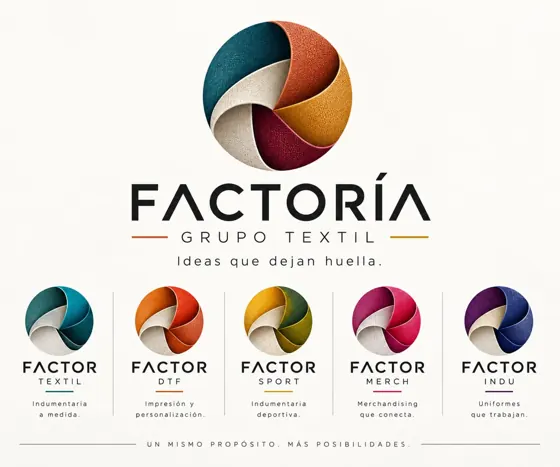
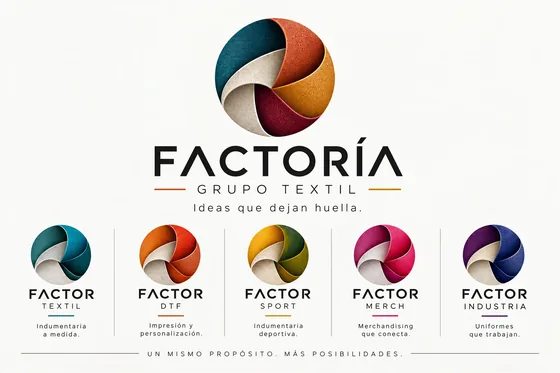
Hero: imagen de familia de marcas con Factor Industria
Nueva imagen (1200x800 y 560x373) con la línea ya renombrada; se ajusta
el alto declarado del <img> a la nueva proporción.

diff --git a/index.html b/index.html
@@ -119,7 +119,7 @@
         </div>
 
         <figure class="hero-art stitch">
-          <img src="/assets/img/lineas/familia-marcas.webp" srcset="/assets/img/lineas/familia-marcas-sm.webp 560w, /assets/img/lineas/familia-marcas.webp 1200w" sizes="(max-width: 900px) min(520px, calc(100vw - 32px)), 480px" alt="Factoría Grupo Textil y sus cinco líneas: Factor Textil, Factor DTF, Factor Sport, Factor Merch y Factor Industria" width="1200" height="1000" fetchpriority="high">
+          <img src="/assets/img/lineas/familia-marcas.webp" srcset="/assets/img/lineas/familia-marcas-sm.webp 560w, /assets/img/lineas/familia-marcas.webp 1200w" sizes="(max-width: 900px) min(520px, calc(100vw - 32px)), 480px" alt="Factoría Grupo Textil y sus cinco líneas: Factor Textil, Factor DTF, Factor Sport, Factor Merch y Factor Industria" width="1200" height="800" fetchpriority="high">
         </figure>
       </div>
     </section>
